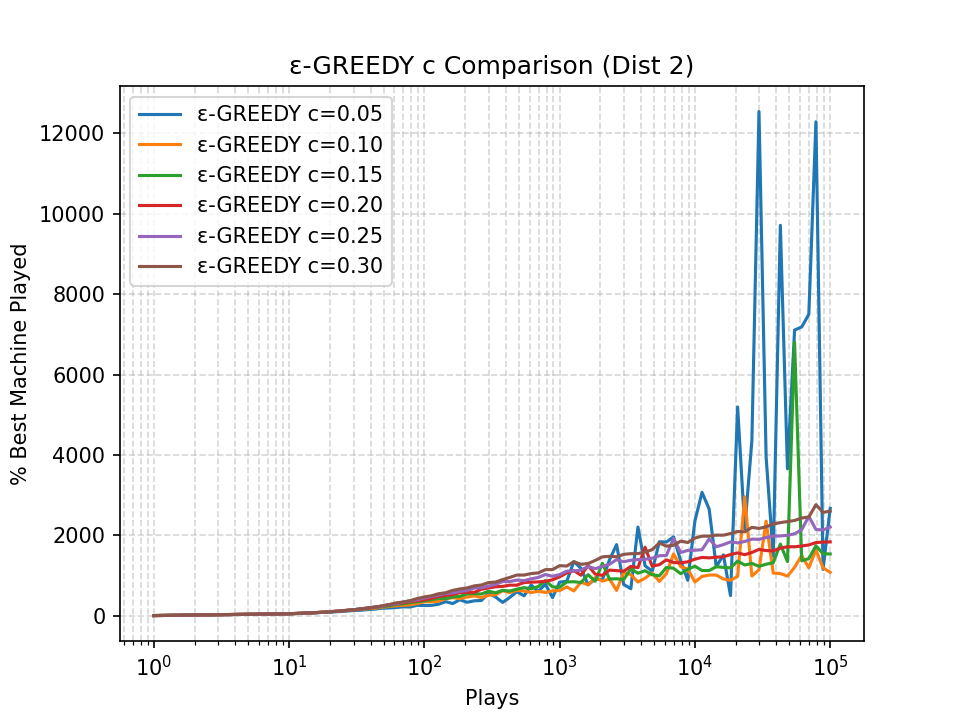
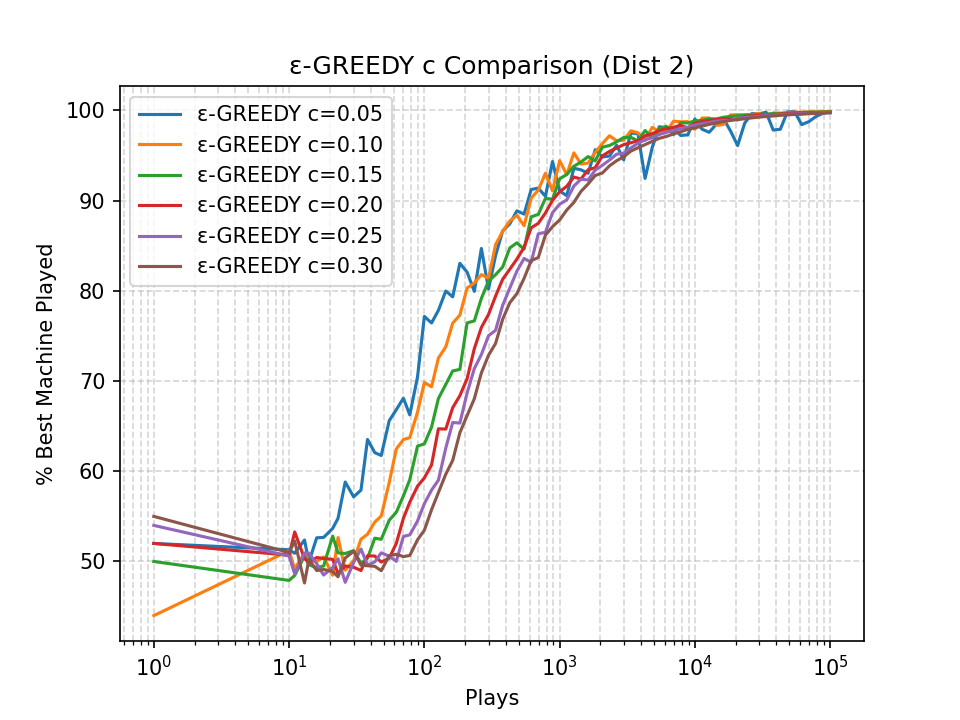
en greedy graphs for dist_2 corrected

diff --git a/main.py b/main.py
@@ -47,7 +47,7 @@ graphs.multi_best_machine_ratio_plot([(ucb_tuned[0], ucb_tuned[2], "UCB-Tuned"),
 """
 
 """
-e_n-greedy with different c values tested on distribution 2
+#e_n-greedy with different c values tested on distribution 2
 
 eng_005 = simulation.run_simulations(5, data2, "en_greedy", c=0.05, d=0.1)
 eng_010 = simulation.run_simulations(5, data2, "en_greedy", c=0.10, d=0.1)
@@ -66,12 +66,12 @@ graphs.multi_regret_plot([
 ], title="ε-GREEDY c Comparison (Dist 2)", filename="en_greedy_c_dist2_regret")
 
 graphs.multi_best_machine_ratio_plot([
-    (eng_005[0], eng_005[1], "ε-GREEDY c=0.05"),
-    (eng_010[0], eng_010[1], "ε-GREEDY c=0.10"),
-    (eng_015[0], eng_015[1], "ε-GREEDY c=0.15"),
-    (eng_020[0], eng_020[1], "ε-GREEDY c=0.20"),
-    (eng_025[0], eng_025[1], "ε-GREEDY c=0.25"),
-    (eng_030[0], eng_030[1], "ε-GREEDY c=0.30"),
+    (eng_005[0], eng_005[2], "ε-GREEDY c=0.05"),
+    (eng_010[0], eng_010[2], "ε-GREEDY c=0.10"),
+    (eng_015[0], eng_015[2], "ε-GREEDY c=0.15"),
+    (eng_020[0], eng_020[2], "ε-GREEDY c=0.20"),
+    (eng_025[0], eng_025[2], "ε-GREEDY c=0.25"),
+    (eng_030[0], eng_030[2], "ε-GREEDY c=0.30"),
 ], title="ε-GREEDY c Comparison (Dist 2)", filename="en_greedy_c_dist2_ratio")
 
 print("Done.")
